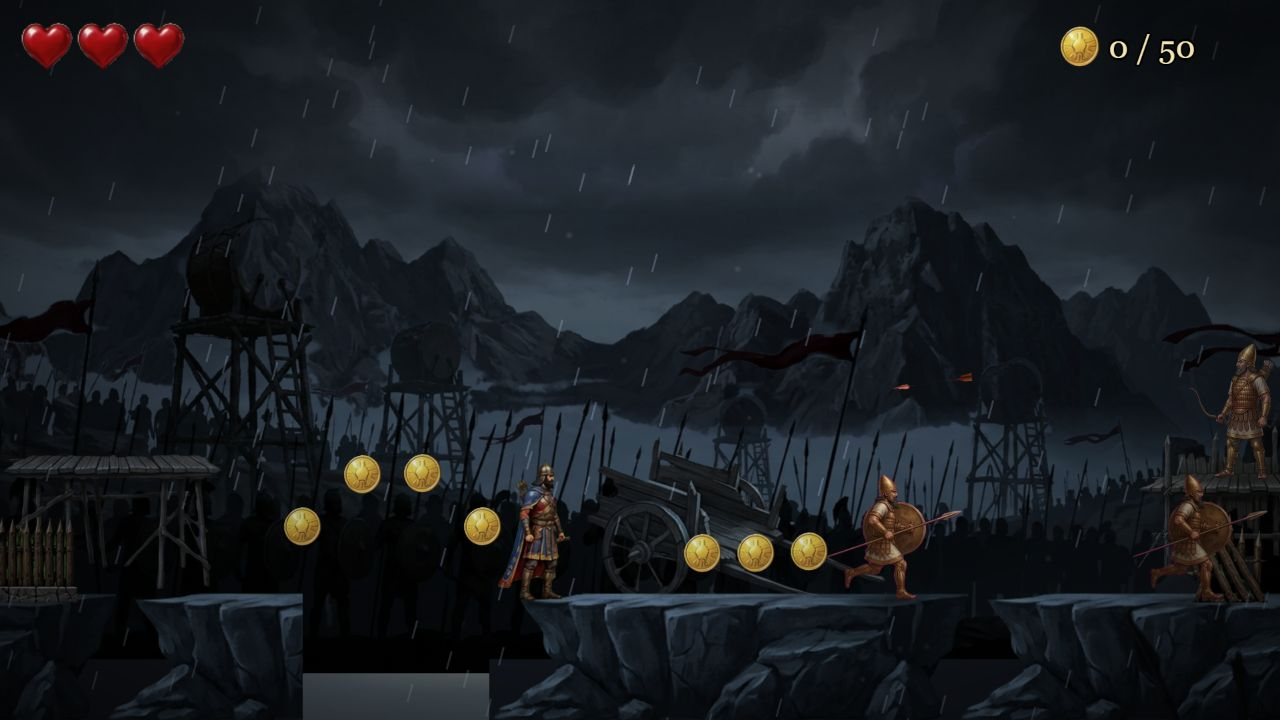
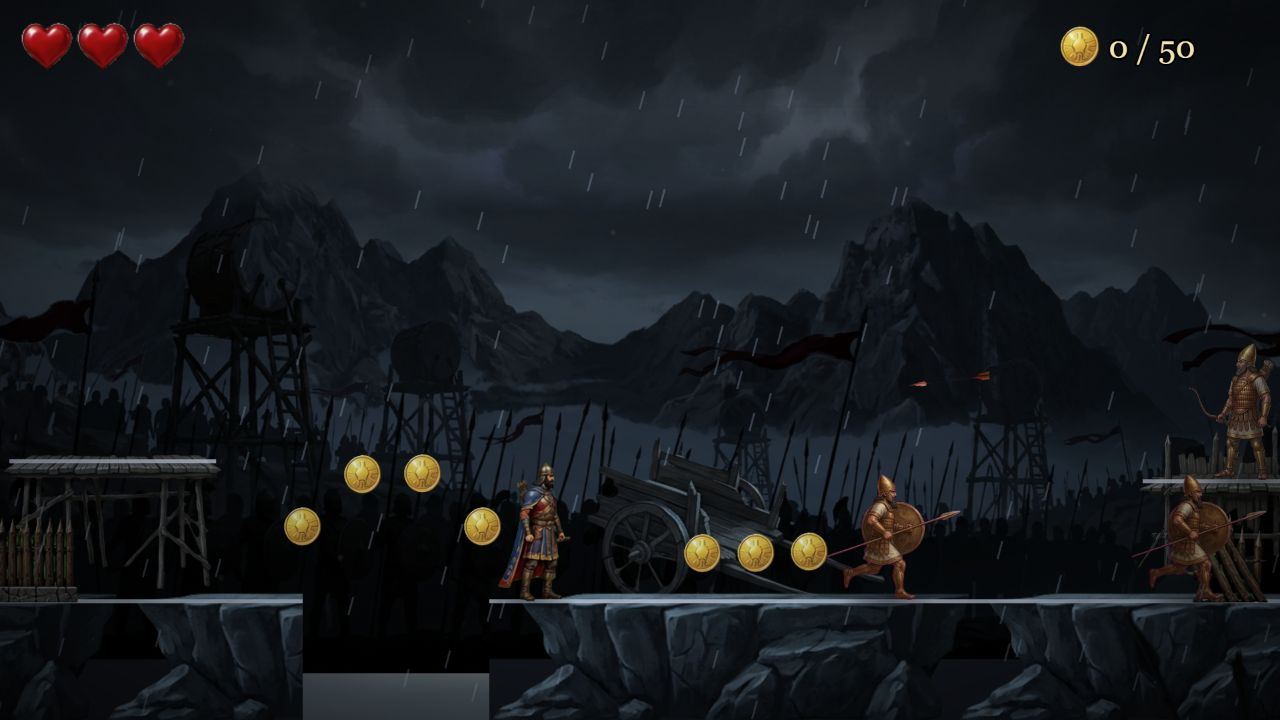
Новая игра сбрасывает прогресс; ноги двигаются при ходьбе с натянутым луком; уровень 4 читается лучше; кровь; страховка от зависания при переходах

diff --git a/src/scenes/Game.js b/src/scenes/Game.js
@@ -114,7 +114,8 @@ export default class Game extends Phaser.Scene {
 
     this.scene.launch('UI', { name: t('level' + this.levelId), intro: this.cpIndex < 0 });
     if (this.game.sfx) this.game.sfx.ambient(atm ? atm.ambient : null);
-    if (this.levelId >= 1 && this.levelId > loadSave().level) writeSave({ level: this.levelId });
+    // «Продолжить» ведёт на уровень, где игрок сейчас. Запуск по адресу ?level=N прогресс не трогает.
+    if (this.levelId >= 1 && PARAMS.level === null) writeSave({ level: this.levelId });
 
     if (PARAMS.debug) this.setupDebug();
     this.events.once('shutdown', () => {
@@ -152,6 +153,7 @@ export default class Game extends Phaser.Scene {
     const bodyH = src.height * s * (1 - t.top);
     this.add.rectangle(g.x, g.y + bodyH * 0.45, g.w, BOTTOM - g.y, t.fill).setOrigin(0).setDepth(19);
     if (art.snow) this.addSnow(g.x, g.y, g.w, 21);
+    if (art.edge) this.add.rectangle(g.x, g.y - 1, g.w, art.edge.h, art.edge.color, art.edge.alpha).setOrigin(0).setDepth(21);
     if (g.ice) this.add.rectangle(g.x, g.y - 3, g.w, 14, 0xd8f0ff, 0.75).setOrigin(0).setDepth(21);
   }
 
@@ -180,6 +182,7 @@ export default class Game extends Phaser.Scene {
       if (art.snow && !a.noSnow) vis.push(this.addSnow(p.x + inset, p.y, p.w - inset * 2, 23));
       if (p.ice) vis.push(this.add.rectangle(p.x + inset, p.y - 3, p.w - inset * 2, 12, 0xd8f0ff, 0.8).setOrigin(0).setDepth(23));
     }
+    if (art && art.edge && a) vis.push(this.add.rectangle(p.x + inset, p.y - 1, p.w - inset * 2, art.edge.h, art.edge.color, art.edge.alpha).setOrigin(0).setDepth(23));
     if (p.crumble) vis.push(this.addCracks(p.x + inset, p.y, p.w - inset * 2));
     z.vis = vis;
     for (const v of vis) v.homeY = v.y;
@@ -368,6 +371,18 @@ export default class Game extends Phaser.Scene {
     this.tweens.add({ targets: label, y: label.y - 90, alpha: 0, duration: 1400, onComplete: () => label.destroy() });
   }
 
+  // брызги крови в точке (x, y): n капель
+  bleed(x, y, n) {
+    if (!n) return;
+    if (!this.blood) {
+      this.blood = this.add.particles(0, 0, 'dot', {
+        emitting: false, lifespan: { min: 350, max: 650 }, speed: { min: 90, max: 380 }, angle: { min: 200, max: 340 },
+        gravityY: 1300, scale: { start: 0.34, end: 0.08 }, alpha: { start: 1, end: 0.5 }, tint: 0x8a0a0a,
+      }).setDepth(58);
+    }
+    this.blood.emitParticleAt(x, y, n);
+  }
+
   // Помощь в прицеливании: лук у героя на уровне плеч, а волк и кабан ниже.
   // Стрела, пролетающая чуть выше спины врага, засчитывается как попадание.
   arrowAssist() {
@@ -405,11 +420,18 @@ export default class Game extends Phaser.Scene {
     this.over = true;
     this.player.frozen = true;
     this.player.setTint(0x884444);
-    this.cameras.main.fadeOut(700, 0, 0, 0);
-    this.cameras.main.once('camerafadeoutcomplete', () => {
+    // затемнение и переход; таймер — страховка на случай, если затемнение не запустится
+    // (тогда герой остался бы «замороженным» навсегда)
+    let gone = false;
+    const go = () => {
+      if (gone) return;
+      gone = true;
       this.scene.stop('UI');
       this.scene.start('GameOver', { level: this.levelId, cp: this.cpIndex, coins: this.cpCoins });
-    });
+    };
+    this.cameras.main.fade(700, 0, 0, 0, true);
+    this.cameras.main.once('camerafadeoutcomplete', go);
+    this.time.delayedCall(1000, go);
   }
 
   fellInPit() {
@@ -432,13 +454,21 @@ export default class Game extends Phaser.Scene {
     if (this.finished || this.over) return;
     this.finished = true;
     this.player.frozen = true;
-    if (this.levelId >= 1 && this.levelId < LAST_LEVEL) writeSave({ level: Math.max(loadSave().level, this.levelId + 1) });
-    this.cameras.main.fadeOut(900, 0, 0, 0);
-    this.cameras.main.once('camerafadeoutcomplete', () => {
+    if (this.levelId >= 1 && this.levelId < LAST_LEVEL && PARAMS.level === null) writeSave({ level: this.levelId + 1 });
+    let gone = false;
+    const once = (fn) => () => {
+      if (gone) return;
+      gone = true;
+      fn();
+    };
+    this.cameras.main.fade(900, 0, 0, 0, true);
+    const leave = once(() => {
       this.scene.stop('UI');
       if (this.scene.get('Story') && this.levelId >= 1) this.scene.start('Story', { i: this.levelId, coins: this.coins });
       else this.scene.start('Game', { level: LEVELS[this.levelId + 1] ? this.levelId + 1 : this.levelId });
     });
+    this.cameras.main.once('camerafadeoutcomplete', leave);
+    this.time.delayedCall(1300, leave);
   }
 
   setupDebug() {

diff --git a/src/entities/Player.js b/src/entities/Player.js
@@ -1,7 +1,9 @@
 import Phaser from 'phaser';
-import { PLAYER, BOW } from '../config.js';
+import { PLAYER, BOW, BLOOD } from '../config.js';
 
 const FEET_Y = 188; // линия ног в кадре 200×196
+const WAIST_Y = 116; // линия пояса в кадре: выше — торс, ниже — ноги
+const LEGS_SHIFT = 20; // на сколько сдвинуть бегущие ноги вперёд, чтобы они встали под торс с луком
 
 function toward(v, target, step) {
   if (v < target) return Math.min(v + step, target);
@@ -37,6 +39,10 @@ export default class Player extends Phaser.Physics.Arcade.Sprite {
     this.frozen = false;
 
     this.shadow = scene.add.image(x, y, 'shadow').setDepth(49).setScale(1.1, 0.22).setAlpha(0.5);
+    // Отдельные «ноги»: когда герой идёт с натянутым луком, верх тела берётся из кадра выстрела,
+    // а низ — из анимации бега (кадров «ходьба с натянутым луком» на ленте нет).
+    this.legs = scene.add.sprite(x, y, 'hayk', 1).setOrigin(0.5, FEET_Y / 196).setScale(PLAYER.scale).setDepth(49.9).setVisible(false);
+    this.legs.setCrop(0, WAIST_Y, 200, 196 - WAIST_Y);
     this.bar = scene.add.graphics().setDepth(60); // полоска заряда
   }
 
@@ -105,6 +111,22 @@ export default class Player extends Phaser.Physics.Arcade.Sprite {
 
     // кадр анимации
     this.setFlipX(this.facing < 0);
+    const aimWalk = !!this.chargeStart && onGround && Math.abs(vx) > 40;
+    if (aimWalk) {
+      // торс с луком + бегущие ноги
+      this.setCrop(0, 0, 200, WAIST_Y);
+      // в кадрах бега таз сдвинут назад относительно кадра выстрела — подвигаем ноги под торс
+      this.legs.setVisible(true).setPosition(this.x + this.facing * LEGS_SHIFT, this.y).setFlipX(this.facing < 0);
+      this.legs.anims.play('hayk-run', true);
+      if (time > this.stepAt) {
+        this.stepAt = time + 290;
+        if (sfx) sfx.play('step', this.surface());
+      }
+    } else if (this.legs.visible) {
+      this.setCrop();
+      this.legs.setVisible(false);
+      this.legs.anims.stop();
+    }
     if (this.chargeStart) {
       this.anims.stop();
       this.setFrame(time - this.chargeStart < 120 ? 11 : 12);
@@ -127,6 +149,7 @@ export default class Player extends Phaser.Physics.Arcade.Sprite {
 
     // мигание при неуязвимости
     this.setAlpha(time < this.invulnUntil && Math.floor(time / 70) % 2 ? 0.35 : 1);
+    this.legs.setAlpha(this.alpha);
 
     // тень и полоска заряда
     this.shadow.setVisible(onGround).setPosition(this.x, this.y + 2);
@@ -168,6 +191,7 @@ export default class Player extends Phaser.Physics.Arcade.Sprite {
     this.hp -= dmg;
     this.invulnUntil = time + PLAYER.invulnMs;
     this.stunUntil = time + PLAYER.stunMs;
+    if (this.scene.bleed) this.scene.bleed(this.x, this.y - 110, BLOOD.hero);
     this.chargeStart = 0;
     this.body.setVelocity((this.x < fromX ? -1 : 1) * PLAYER.knockX, -PLAYER.knockY);
     this.jumping = false;

diff --git a/src/config.js b/src/config.js
@@ -57,7 +57,7 @@ export const CAMERA = {
 
 export const ENEMY = {
   spearman: { hp: 2, speed: 110, height: 205, sight: 330, windupMs: 450, lungeSpeed: 640, lungeMs: 330, restMs: 900 },
-  archer: { hp: 2, height: 205, sight: 1150, reloadMs: 2600, aimMs: 800, arrowSpeed: 780, arrowGravity: 500 },
+  archer: { hp: 2, height: 205, sight: 900, reloadMs: 2600, aimMs: 800, arrowSpeed: 780, arrowGravity: 500 },
   wolf: { hp: 1, speed: 170, chaseSpeed: 400, height: 125, sight: 620 },
   boar: { hp: 2, speed: 100, height: 115, sight: 700, windupMs: 550, chargeSpeed: 720, chargeMs: 1300, restMs: 1000 },
   bear: { hp: 5, speed: 105, chaseSpeed: 150, height: 150, sight: 500 },
@@ -89,5 +89,8 @@ export const CRUMBLE = { delayMs: 550, respawnMs: 3500 };
 // Приглушение ярких спрайтов (герой, звери, предметы), чтобы они не выбивались из живописных фонов.
 // 1 — как в файле, 0 — серое.
 export const STYLE = { saturation: 0.68, brightness: 0.95 };
+
+// Кровь: сколько капель при попадании во врага, при гибели врага и при ранении героя (0 — выключить)
+export const BLOOD = { hit: 8, death: 14, hero: 9 };
 
 export const AUDIO = { music: 0.6, sfx: 0.7, fadeMs: 1500 };

diff --git a/src/atmosphere/index.js b/src/atmosphere/index.js
@@ -162,17 +162,19 @@ export const ATMOSPHERE = {
     lightning: true,
     sky: { key: 'h-sky', tint: 0xb8c0cc },
     layers: [
-      { key: 'h-far', factor: 0.05, scale: 1.45, bottom: 860, tint: 0xa8b0bc },
-      { key: 'h-mid', factor: 0.2, scale: 1.45, bottom: 1010, tint: 0x8a8f98 },
+      { key: 'h-far', factor: 0.05, scale: 1.45, bottom: 860, tint: 0x8a929e },
+      { key: 'h-mid', factor: 0.2, scale: 1.45, bottom: 1010, tint: 0x5e636c },
     ],
     front: { key: 'h-front', tint: 0x30343c, zoom: 1.5, dy: 130 },
     grade: { color: 0xa8b4c8, alpha: 0.32, blend: 'MULTIPLY' },
     vignette: 0.72,
     particles: [{ type: 'rain' }, { type: 'dust', tint: 0xb8a890, alpha: 0.18 }],
     art: {
-      tint: 0xdfe4ee,
+      tint: 0xffffff,
+      // светлая кромка по верху земли и платформ — чтобы их было видно на тёмном фоне
+      edge: { color: 0xe4ecf8, alpha: 0.8, h: 6 },
       propTint: 0xb8bcc4,
-      support: { tex: 'h-plat-12', mode: 'stack', stretch: 2.6, width: 0.6, under: 0.5, tint: 0xa0a6b2 },
+      support: { tex: 'h-plat-12', mode: 'stack', stretch: 2.6, width: 0.6, under: 0.5, tint: 0xc4cad6 },
       ground: { tex: 'h-plat-12', top: 0.06, scale: 1.5, fill: 0x161a22, overlap: 0.03 },
       plats: HAYOTS_PLATS,
     },

diff --git a/src/entities/Enemy.js b/src/entities/Enemy.js
@@ -1,5 +1,5 @@
 import Phaser from 'phaser';
-import { ENEMY } from '../config.js';
+import { ENEMY, BLOOD } from '../config.js';
 import { SHEET_INFO } from '../sprites.js';
 
 // Как выглядит каждый враг.
@@ -295,6 +295,7 @@ export default class Enemy extends Phaser.Physics.Arcade.Sprite {
   hit(arrow) {
     if (this.dead) return;
     this.hp -= arrow.damage;
+    if (this.scene.bleed) this.scene.bleed(arrow.x, arrow.y, BLOOD.hit);
     const sfx = this.scene.game.sfx;
     this.setTintFill(0xffffff);
     this.scene.time.delayedCall(90, () => {
@@ -313,6 +314,7 @@ export default class Enemy extends Phaser.Physics.Arcade.Sprite {
     this.body.enable = false;
     this.shadow.destroy();
     if (scene.game.sfx) scene.game.sfx.play('die');
+    if (scene.bleed) scene.bleed(this.x, this.y - this.cfg.height * 0.55, BLOOD.death);
     const death = this.look.death;
     if (this.sheetKey && death && SHEET_INFO[death]) {
       // настоящая анимация падения: кадры по очереди, потом тело тает

diff --git a/src/scenes/Ending.js b/src/scenes/Ending.js
@@ -2,6 +2,7 @@ import Phaser from 'phaser';
 import { GAME_W, GAME_H } from '../config.js';
 import { FONT } from './UI.js';
 import { t } from '../i18n.js';
+import { writeSave } from '../save.js';
 
 // Финальный экран и титры (источники ассетов — из CREDITS.md).
 // Строки титров лежат в src/i18n.js (на русском и английском).
@@ -13,6 +14,7 @@ export default class Ending extends Phaser.Scene {
 
   create() {
     this.cameras.main.setBackgroundColor('#0a0806');
+    writeSave({ level: 1 }); // игра пройдена — «Продолжить» больше не нужно
     this.cameras.main.fadeIn(1200);
     if (this.game.sfx) this.game.sfx.ambient('meadow');
     const box = this.add.container(0, 0);

diff --git a/src/scenes/Menu.js b/src/scenes/Menu.js
@@ -166,7 +166,11 @@ export default class Menu extends Phaser.Scene {
     this.tweens.add({ targets: this.music, volume: 0, duration: 900 });
     this.cameras.main.fadeOut(1000, 0, 0, 0);
     this.cameras.main.once('camerafadeoutcomplete', () => {
-      if (this.sel === 0) this.scene.start('Story', { i: 0 });
+      if (this.sel === 0) {
+        // новая игра стирает прошлый прогресс
+        writeSave({ level: 1 });
+        this.scene.start('Story', { i: 0 });
+      }
       else this.scene.start('Story', { i: this.save.level - 1 });
     });
   }

diff --git a/src/entities/Boss.js b/src/entities/Boss.js
@@ -1,5 +1,5 @@
 import Phaser from 'phaser';
-import { BOSS } from '../config.js';
+import { BOSS, BLOOD } from '../config.js';
 import Enemy from './Enemy.js';
 import { SHEET_INFO } from '../sprites.js';
 
@@ -286,6 +286,7 @@ export default class Boss extends Phaser.Physics.Arcade.Sprite {
     scene.arrows.kill(a);
     if (time < this.invulnUntil) return;
     this.hp--;
+    if (scene.bleed) scene.bleed(a.x, a.y, BLOOD.death);
     this.invulnUntil = time + BOSS.hurtInvulnMs;
     this.setTintFill(0xffffff);
     scene.time.delayedCall(100, () => this.clearTint());

diff --git a/CLAUDE.md b/CLAUDE.md
@@ -92,6 +92,10 @@
 - Уровень 1 Вавилон, уровень 2 Путь на север (ветер, лёд, обвалы), уровень 3 Страна Арарат, уровень 4 Айоц-Дзор с боссом Белом
 - Атмосфера каждого уровня: параллакс, подкраска, частицы, виньетка, факелы, молнии
 - Три языка: русский, английский, армянский. Все тексты лежат в `src/i18n.js`. При первом запуске показывается экран выбора языка (`src/scenes/Lang.js`), потом язык меняется в «Настройках» меню. Новый текст добавлять сразу во все три языка
+- Сохранение: «Начать игру» сбрасывает прогресс на уровень 1, «Продолжить» ведёт на уровень, где игрок остановился; запуск по адресу `?level=N` прогресс не меняет
+- Кровь при попаданиях и ранениях — частицы, количество в `BLOOD` (`src/config.js`, 0 — выключить)
+- Когда Айк идёт с натянутым луком, картинка склеивается из двух: торс из кадра выстрела и ноги из бега (`Player.legs`). Нужны настоящие кадры «ходьба с натянутым луком»
+- На уровне 4 по верху земли и платформ идёт светлая кромка (`edge`), фон затемнён — чтобы платформы читались
 - Чекпоинты невидимы (флажков нет): место просто запоминается, когда герой проходит мимо
 - Под каждой платформой на всех уровнях кодом рисуется опора до земли, чтобы платформы не висели в воздухе (`support` в `src/atmosphere/index.js`): в Вавилоне — кирпичная стена или столбы, на уровнях 2 и 4 — скальный столб, на уровне 3 — каменная кладка. Деревянные помосты, арка и верёвочный мост стоят без опор
 - Лучник берётся из листа `public/assets/enemies/archer-shoot.webp` (4 кадра: лук опущен, поднимает, натянул, выпустил стрелу). Старая заготовка — `spearman.png` с луком, нарисованным кодом (`Boot.makeArcher`) — осталась как запасная
